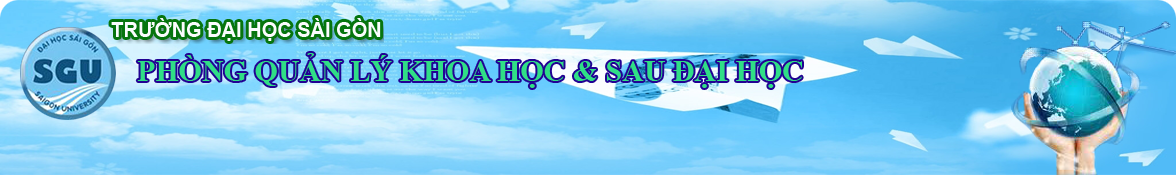
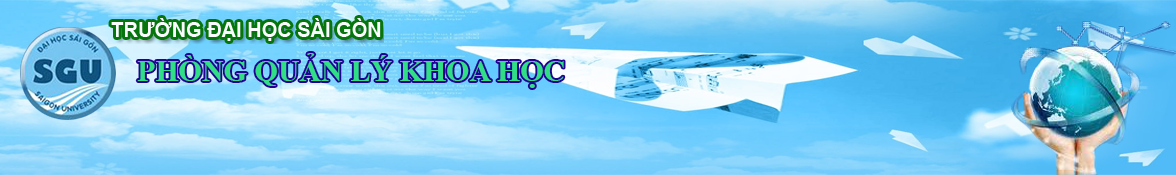
1. Remove Sau Dai Hoc 2. Change header image

diff --git a/application/modules/Admin/controllers/CauHinhController.php b/application/modules/Admin/controllers/CauHinhController.php
@@ -55,7 +55,7 @@ class Admin_CauHinhController extends Khcn_Controller_Action_Admin
     public function hinhAnhAction()
     {
     	// TODO Auto-generated {0}::indexAction() default action
-        $hinhAnhs = $this->hinh_anh->getAll();
+        $hinhAnhs = Khcn_Api::_()->getDbTable('hinh_anh', 'default')->fetchAll();
         
         $paginator = Zend_Paginator::factory($hinhAnhs);
         $currentPage = 1;
@@ -138,13 +138,13 @@ class Admin_CauHinhController extends Khcn_Controller_Action_Admin
 			$this->_redirect('/admin/cau-hinh/hinh-anh');
 		}
 		foreach($_POST['item'] as $id){			
-			$hinh_anh = $this->hinh_anh->getHinhAnh($id);			
+			$hinh_anh = Khcn_Api::_()->getItem('default_hinh_anh', $id);
 			if($hinh_anh != NULL)
 			{			
 				if($hinh_anh['ten_file'] != '' && file_exists( BASE_PATH . '/flash/image-scroller/images/' . $hinh_anh['ten_file']))
 						unlink( BASE_PATH . '/flash/image-scroller/images/' . $hinh_anh['ten_file']);
 				//xoa database
-				$kq = $this->hinh_anh->xoa($id);
+				$kq = $hinh_anh->delete();
 			}			
 		}
 		$this->flash();
@@ -157,12 +157,12 @@ class Admin_CauHinhController extends Khcn_Controller_Action_Admin
     {
     	$id = $this->_getParam('id');
     	if(!empty($id)){
-    		$hinh_anh = $this->hinh_anh->getHinhAnh($id);
+    		$hinh_anh = Khcn_Api::_()->getItem('default_hinh_anh', $id);
     		if($hinh_anh != null){
 				if($hinh_anh['ten_file'] != '' && file_exists( BASE_PATH . '/flash/image-scroller/images/' . $hinh_anh['ten_file']))
 						unlink( BASE_PATH . '/flash/image-scroller/images/' . $hinh_anh['ten_file']);
 				
-    			$kq = $this->hinh_anh->xoa($id);
+    			$kq = $hinh_anh->delete();
     			if(!$kq){
     				$_SESSION['msg'] = 'Lỗi !. Đã có lỗi trong quá trình xử lý, vui lòng thử lại .';
 					$_SESSION['type_msg'] = 'error';
@@ -187,9 +187,10 @@ class Admin_CauHinhController extends Khcn_Controller_Action_Admin
     	$id = $this->_getParam('id');
     	$status = $this->_getParam('status');
     	if(!empty($id)){
-    		$hinh_anh = $this->hinh_anh->getHinhAnh($id);
+    		$hinh_anh = Khcn_Api::_()->getItem('default_hinh_anh', $id);
     		if($hinh_anh != null){
-	    		$kq = $this->hinh_anh->CapNhatTT($id,$status);
+				$hinh_anh->trang_thai = 1 - $status;
+	    		$kq = $hinh_anh->save();
 	    		if(!$kq){
 	    			$_SESSION['msg'] = 'Lỗi !. Đã có lỗi trong quá trình xử lý, vui lòng thử lại .';
 					$_SESSION['type_msg'] = 'error';
@@ -212,8 +213,9 @@ class Admin_CauHinhController extends Khcn_Controller_Action_Admin
      */
     private function flash()
     {
-    	$hinh_anh = new Default_Model_HinhAnh();
-		$hinhAnhs = $hinh_anh->getDSHA();
+    	$hinhAnhTable = Khcn_Api::_()->getDbTable('hinh_anh', 'default');
+		$select = $hinhAnhTable->select()->where('slideshow = 1');
+		$hinhAnhs = $hinhAnhTable->fetchAll($select);
 		$text = '<photos>';
 		foreach ($hinhAnhs as $hinhAnh){
 			$text .= '<photo image="images/' . $hinhAnh['ten_file'] . '" colorboxImage="images/' . $hinhAnh['ten_file'] . '" colorboxInfo="" colorboxClass="image" url="" target="_blank"><![CDATA[<head></head><body></body>]]></photo>';
